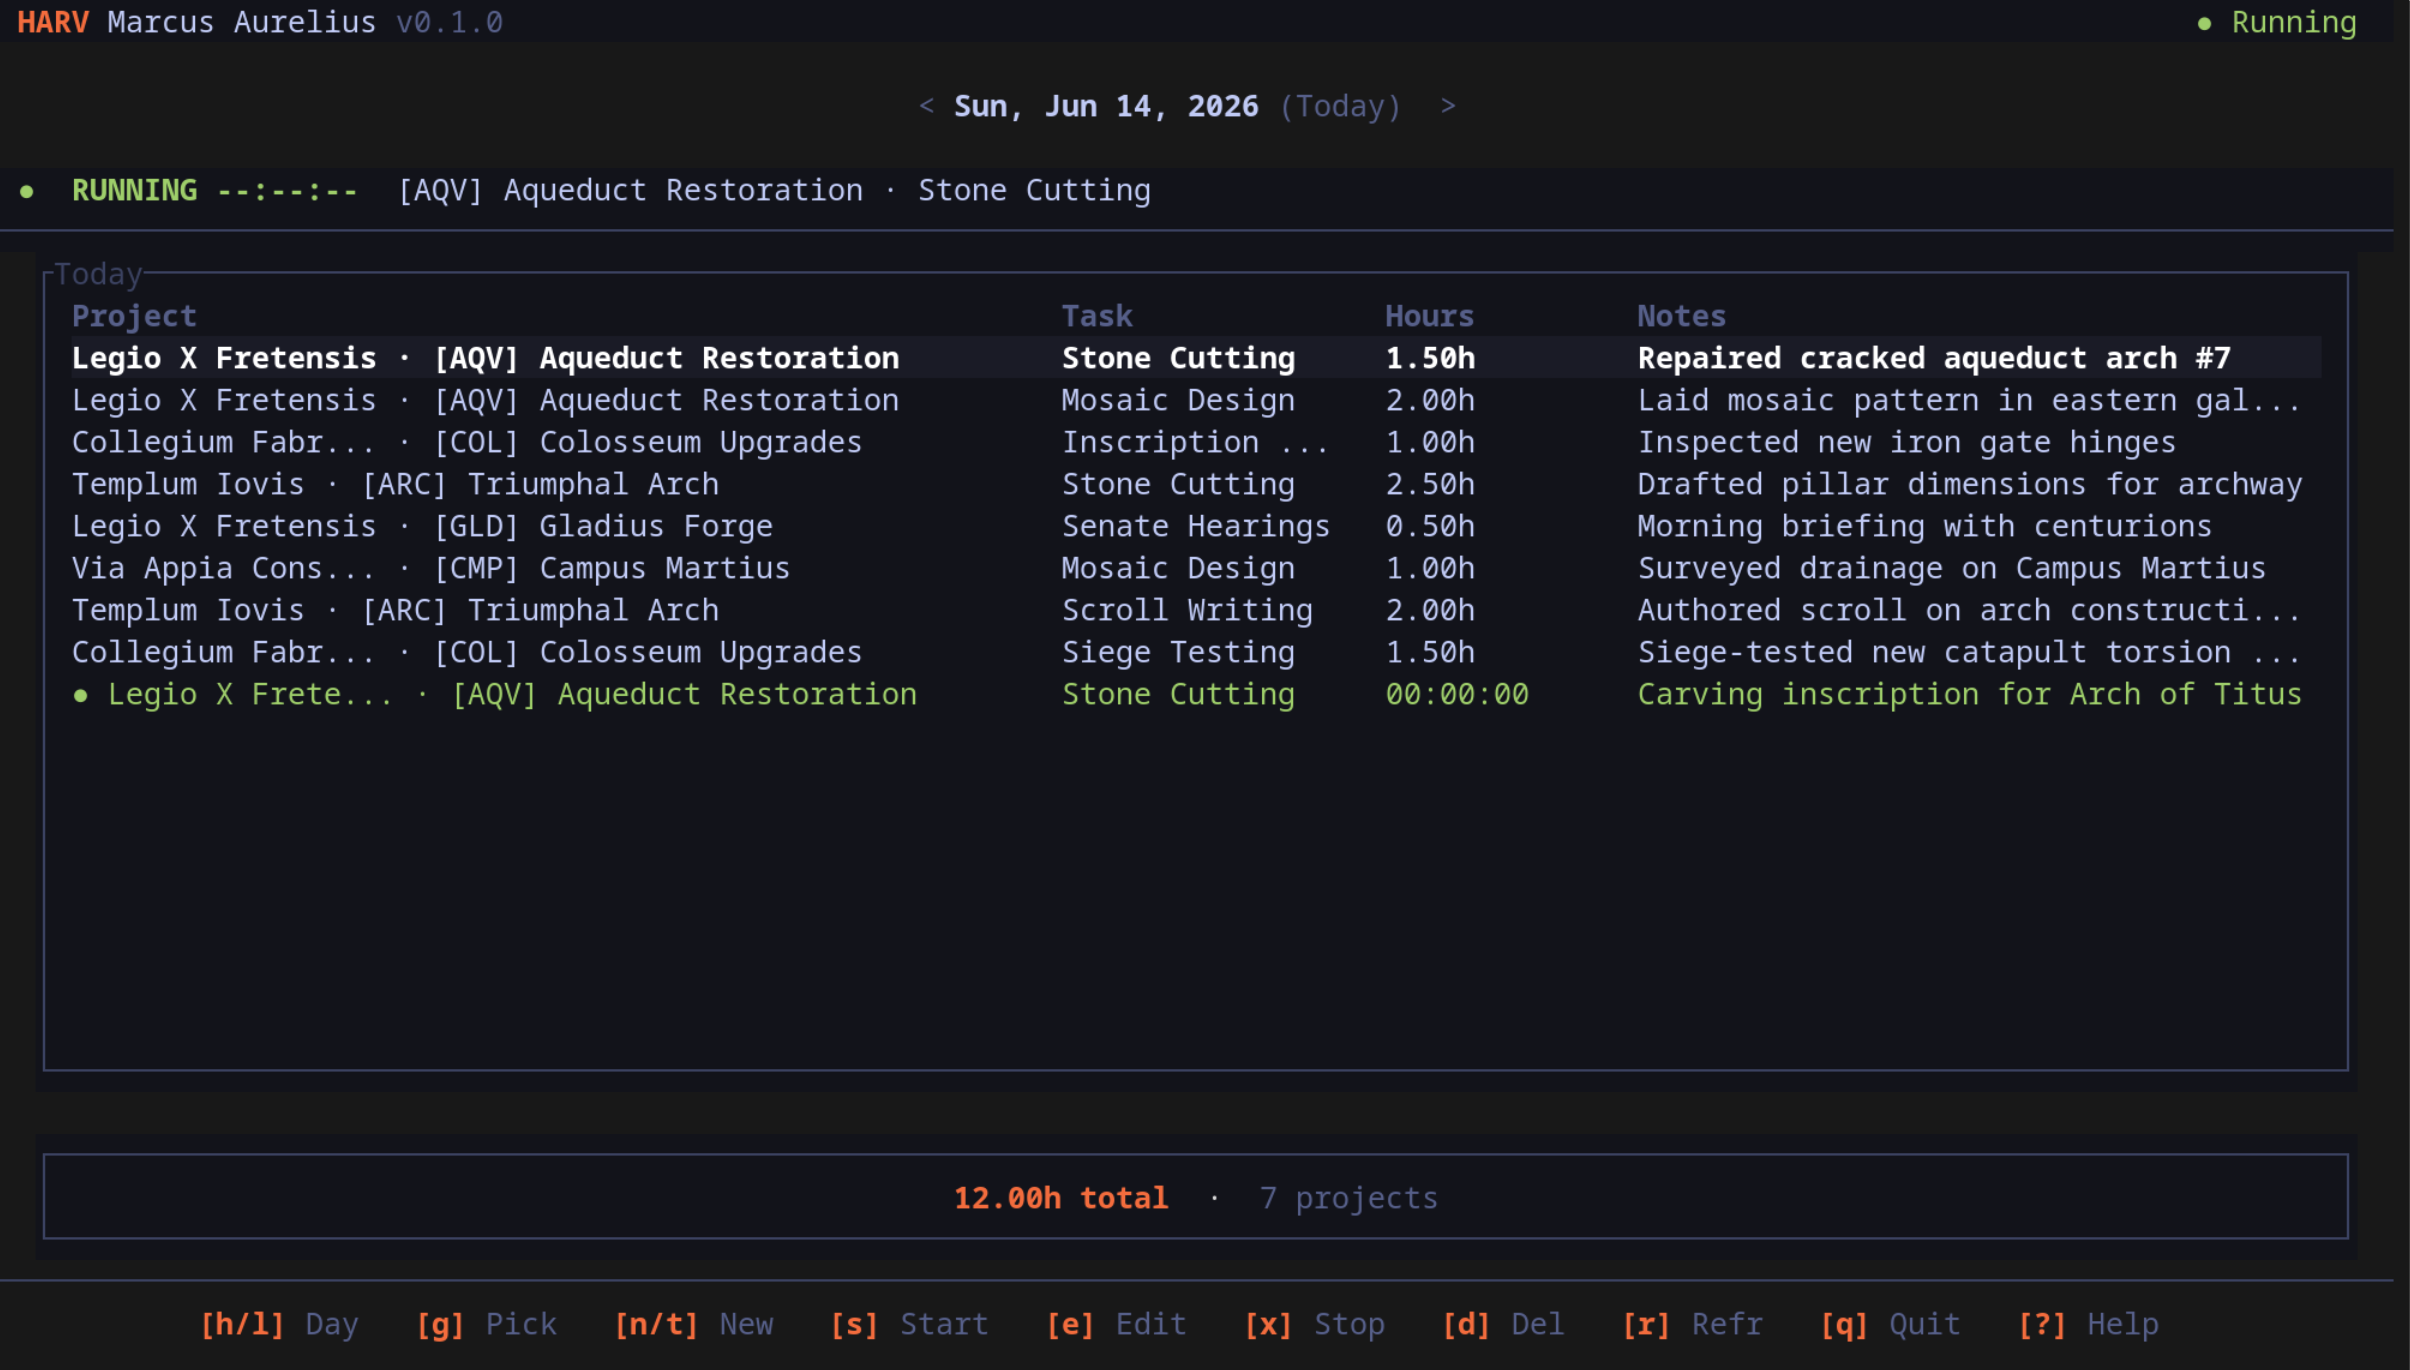
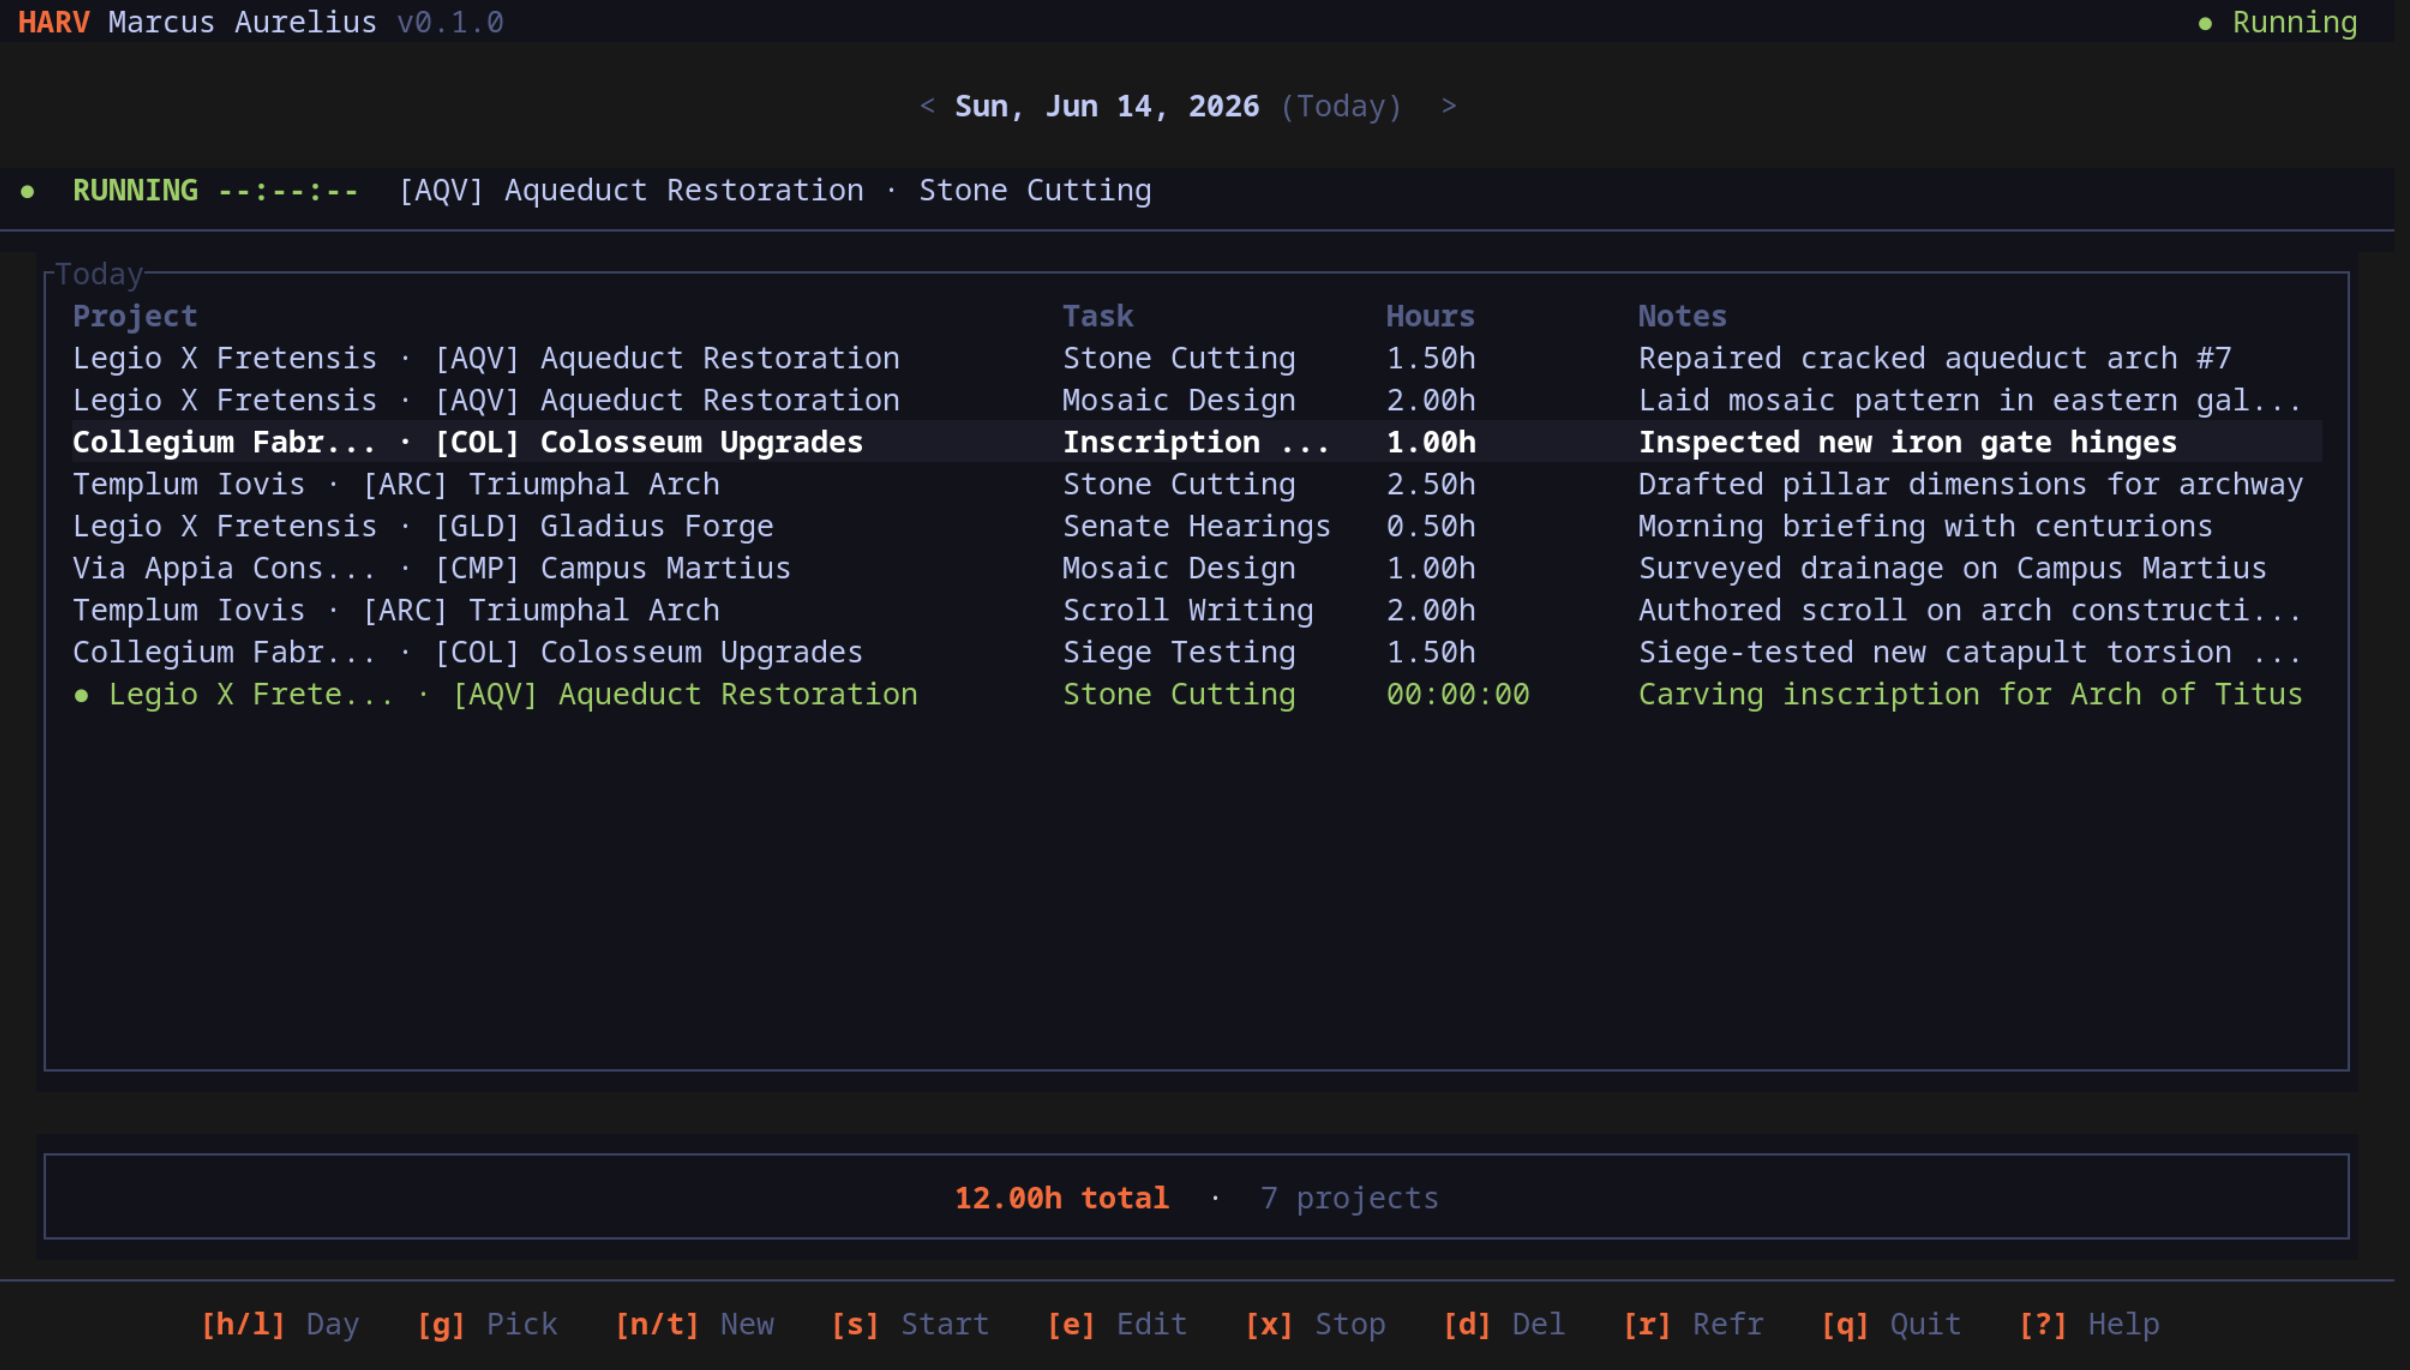
docs: improve images

diff --git a/README.md b/README.md
@@ -11,10 +11,12 @@
 
 Harv is a **command-line time-tracking client** for [Harvest](https://www.getharvest.com/). It lets you log hours, start/stop timers, and review your timesheet — all from your terminal, without touching the browser.
 
-| | | |
-|:---:|:---:|:---:|
-| ![Dashboard](assets/entries.png) | ![New entry](assets/new.png) | ![Loading](assets/loading.png) |
-| *Dashboard & timer* | *Time entry dialog* | *Startup* |
+![Loading](assets/loading.png)
+
+| | |
+|:---:|:---:|
+| ![Dashboard](assets/entries.png) | ![New entry](assets/new.png) |
+| *Dashboard & timer* | *Time entry dialog* |
 
 ### Features
 